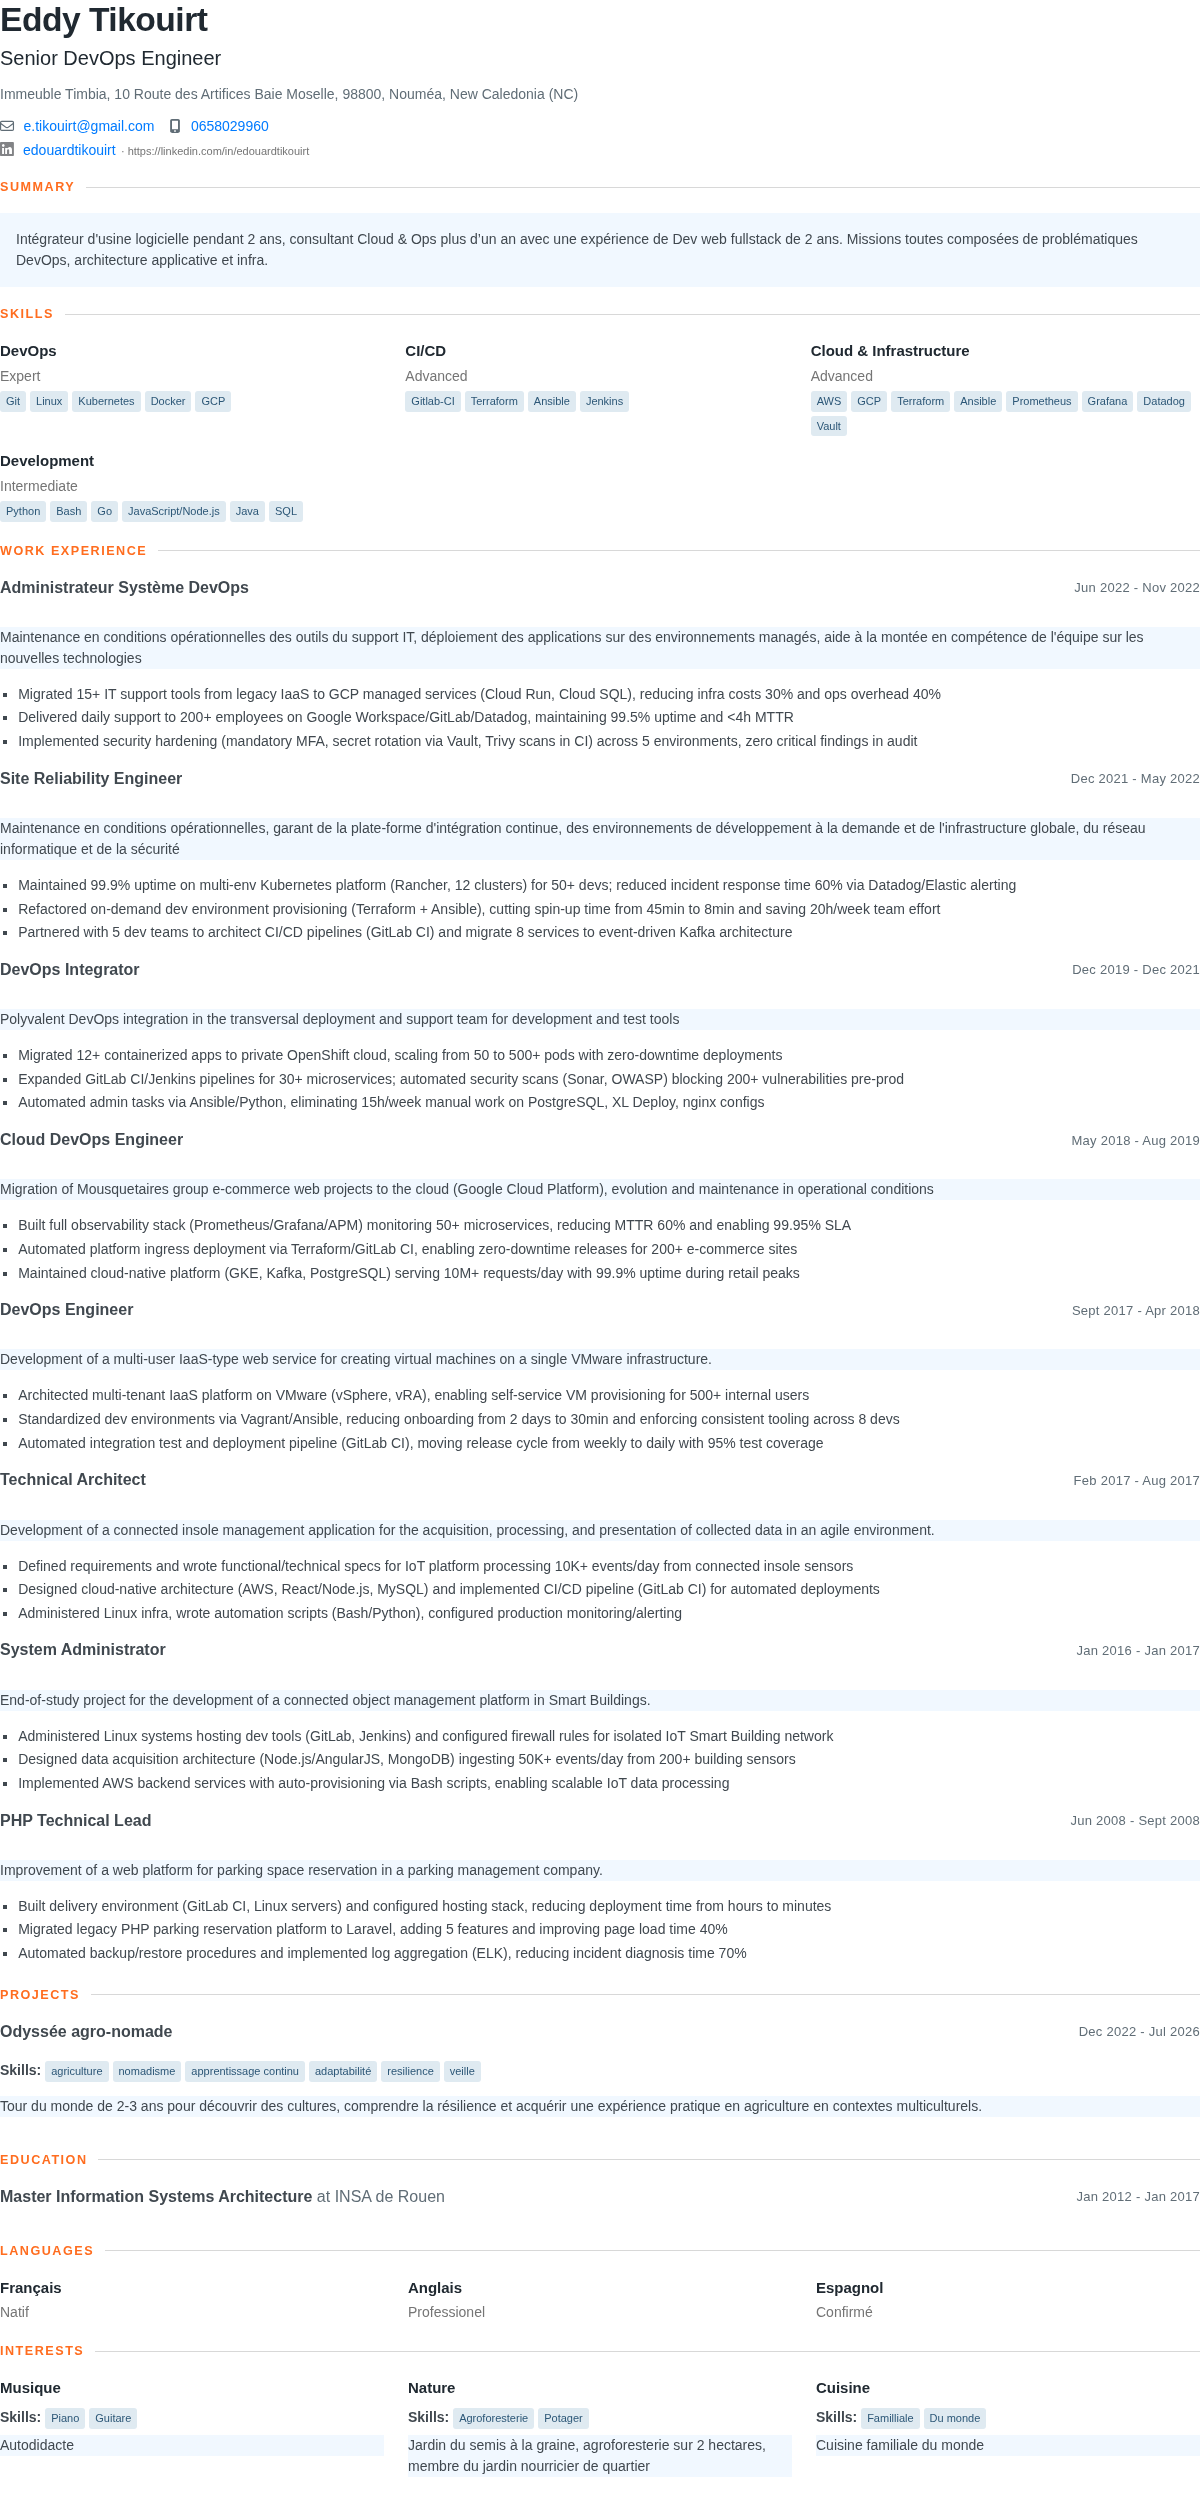
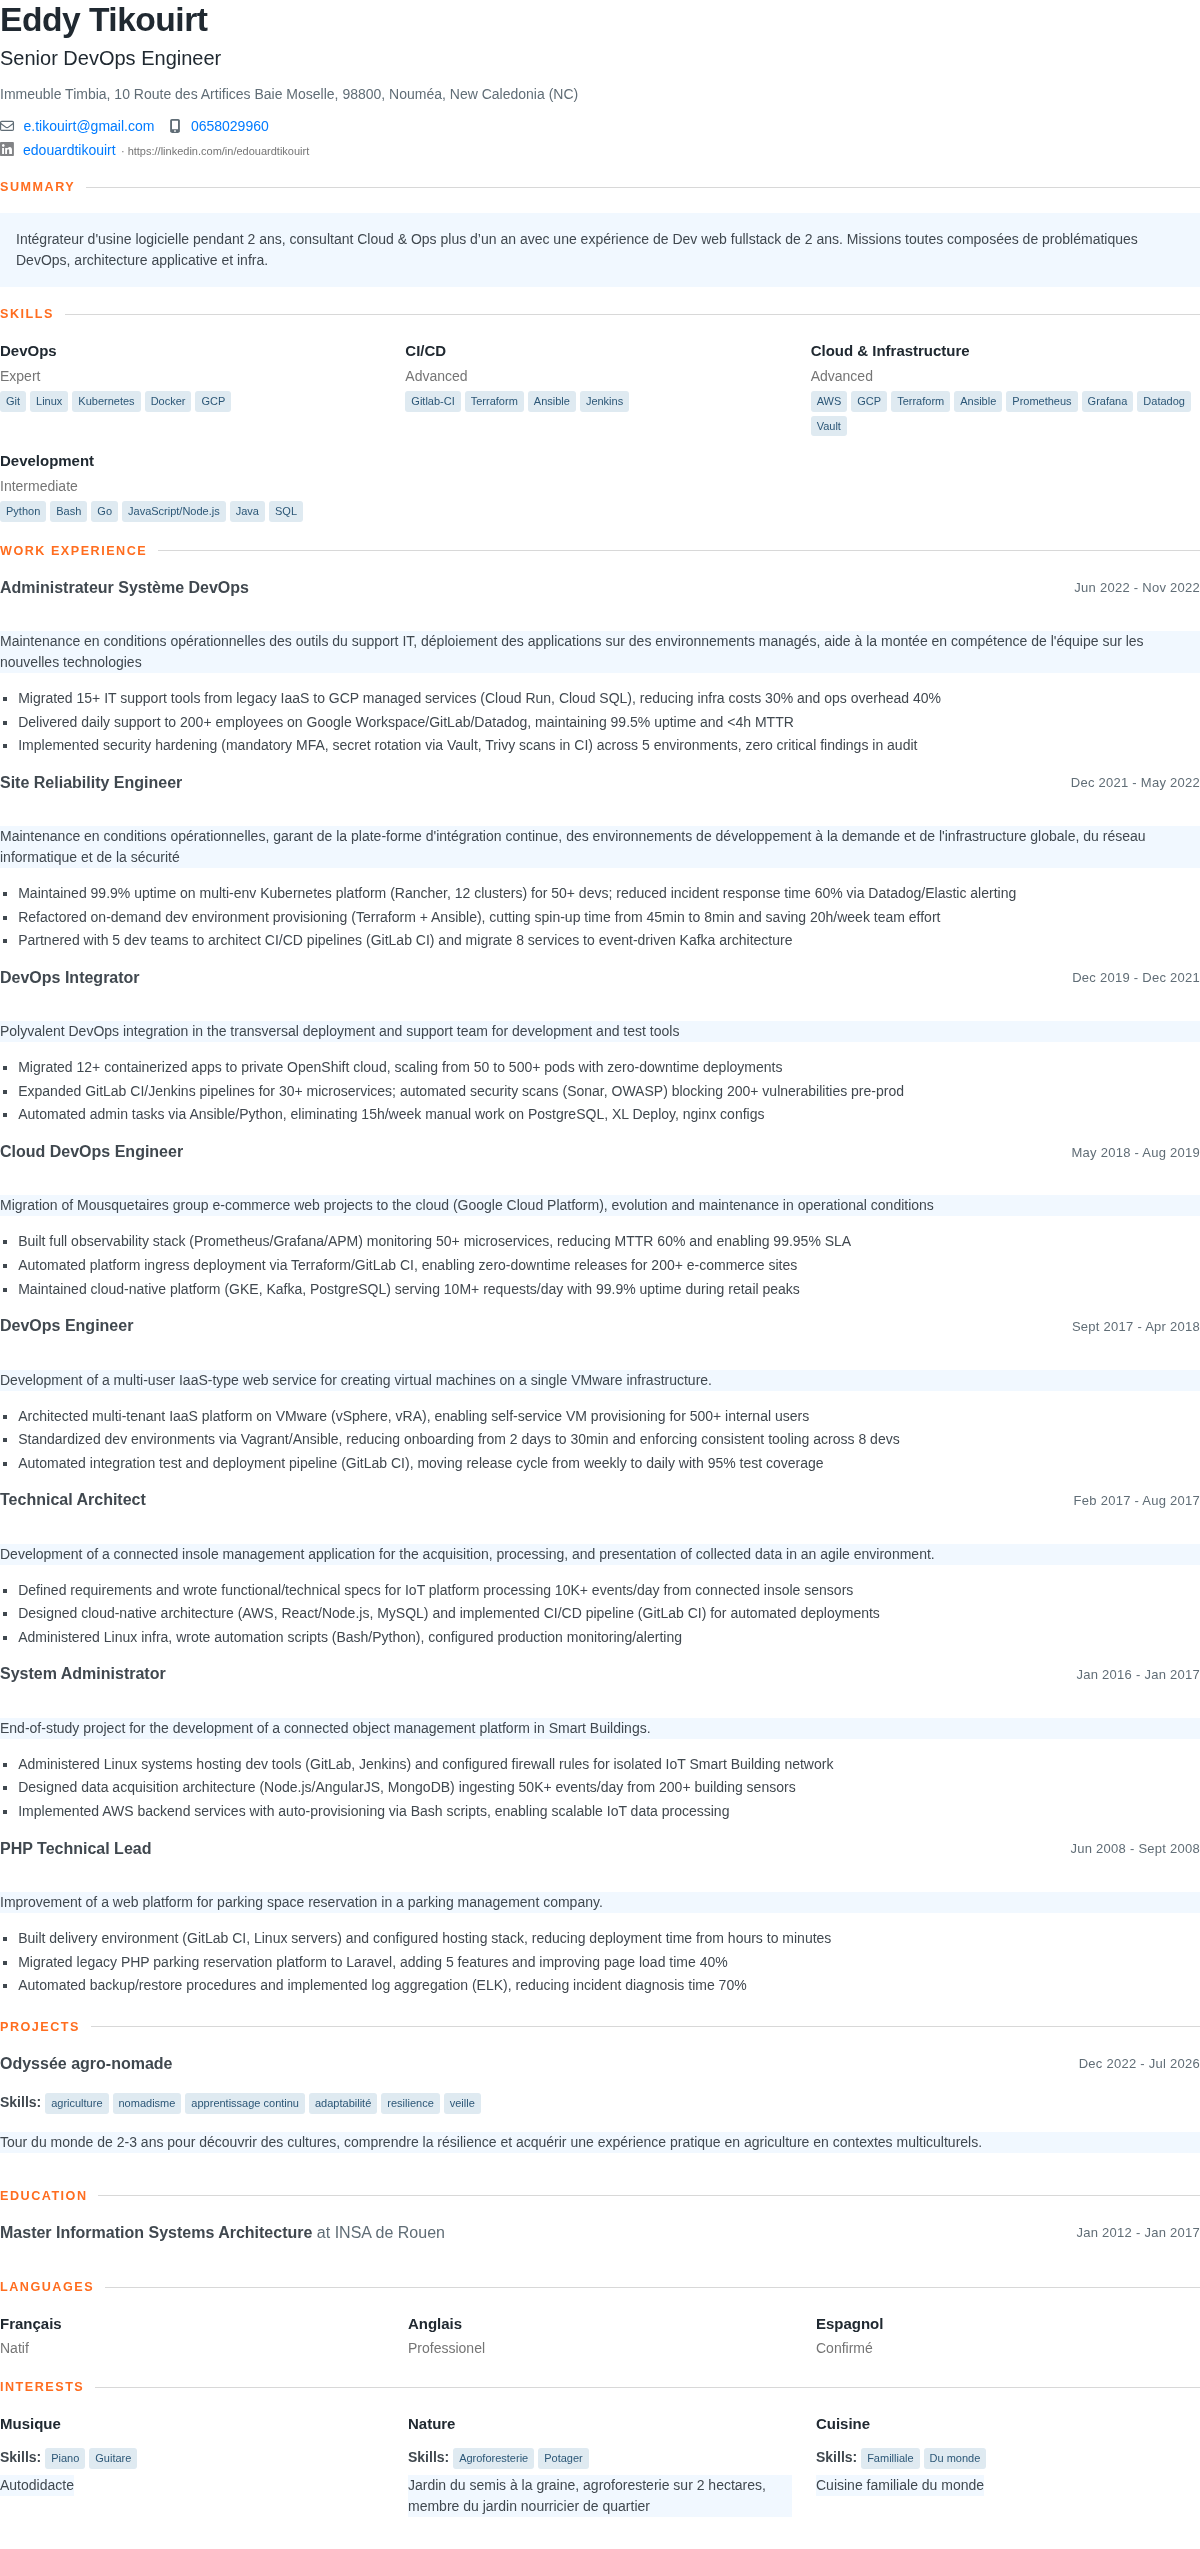
feat(print): fix bubble rendering, interests alignment, and layout density

diff --git a/dist/index.js b/dist/index.js
@@ -48,7 +48,7 @@ https://svelte.dev/e/unresolved_hydratable`,bold,normal):console.warn("https://s
   @media print {.level.svelte-10tjtrd {margin:0.1rem 0;font-weight:400;}.level.svelte-10tjtrd em:where(.svelte-10tjtrd) {font-style:normal;padding:0.1em 0;}.level.svelte-10tjtrd .bar:where(.svelte-10tjtrd) {display:none;}
   }`};function LevelBar($$renderer,$$props){$$renderer.global.css.add($$css5),$$renderer.component($$renderer2=>{let{level,displayText=void 0,name=""}=$$props,normalized=normalizeLevel(level),valueNow=normalized==="beginner"?25:normalized==="intermediate"?50:normalized==="advanced"||normalized==="fluent"?75:100;$$renderer2.push(`<div${attr_class(`level ${stringify(normalized)}`,"svelte-10tjtrd")} role="meter"${attr("aria-label",`${stringify(name?name+" level: ":"")}${stringify(displayText||level)}`)} aria-valuemin="0" aria-valuemax="100"${attr("aria-valuenow",valueNow)}><em class="svelte-10tjtrd">${escape_html(displayText||level)}</em> <div class="bar svelte-10tjtrd" aria-hidden="true"></div></div>`)})}var $$css6={hash:"svelte-1615qzb",code:`ul.svelte-1615qzb {margin:var(--sp-2) 0 0 0;}li.svelte-1615qzb {display:inline-block;margin:2px 4px 2px 0;padding:2px 6px;font-size:var(--fs-fine);line-height:1.5;color:var(--color-keyword-text);background-color:var(--color-keyword-bg);border:0 solid var(--color-keyword-border);border-radius:3px;white-space:nowrap;}li.svelte-1615qzb:hover {background:var(--color-keyword-bg);}
 
-  @media print {ul.svelte-1615qzb {margin:var(--sp-2) 0 0 0;}li.svelte-1615qzb {display:inline-block;margin:2px 4px 2px 0;padding:2px 6px;font-size:var(--fs-fine);background-color:var(--color-keyword-bg) !important;color:var(--color-keyword-text) !important;border-radius:3px;line-height:1.5;-webkit-print-color-adjust:exact !important;print-color-adjust:exact !important;}ul.svelte-1615qzb::before {font-size:var(--fs-body);font-weight:600;}ul.keywords.svelte-1615qzb::before {content:"Skills: ";font-size:var(--fs-body);}.skills-grid ul.svelte-1615qzb::before {content:none;}ul.courses.svelte-1615qzb::before {content:"Major courses: ";font-size:var(--fs-body);}.skills-grid .keywords.svelte-1615qzb {font-size:var(--fs-meta);margin:0;}
+  @media print {ul.svelte-1615qzb {margin:var(--sp-2) 0 0 0;}li.svelte-1615qzb {display:inline-block;margin:2px 4px 2px 0;padding:2px 6px;font-size:var(--fs-fine);background-color:var(--color-keyword-bg) !important;color:var(--color-keyword-text) !important;border-radius:3px !important;line-height:1.5;-webkit-print-color-adjust:exact !important;print-color-adjust:exact !important;}ul.svelte-1615qzb::before {font-size:var(--fs-body);font-weight:600;}ul.keywords.svelte-1615qzb::before {content:"Skills: ";font-size:var(--fs-body);}.skills-grid ul.svelte-1615qzb::before {content:none;}ul.courses.svelte-1615qzb::before {content:"Major courses: ";font-size:var(--fs-body);}.skills-grid .keywords.svelte-1615qzb {font-size:var(--fs-meta);margin:0;}
   }`};function KeywordList($$renderer,$$props){$$renderer.global.css.add($$css6),$$renderer.component($$renderer2=>{let{keywords=[],cssClass="keywords"}=$$props;if(keywords?.length){$$renderer2.push("<!--[0-->"),$$renderer2.push(`<ul${attr_class(clsx2(cssClass),"svelte-1615qzb")}><!--[-->`);let each_array=ensure_array_like(keywords);for(let $$index=0,$$length=each_array.length;$$index<$$length;$$index++){let keyword=each_array[$$index];$$renderer2.push(`<li class="svelte-1615qzb">${escape_html(keyword)}</li>`)}$$renderer2.push("<!--]--></ul>")}else $$renderer2.push("<!--[-1-->");$$renderer2.push("<!--]-->")})}var $$css7={hash:"svelte-18p2gu6",code:`.skills-grid.svelte-18p2gu6 {display:grid;grid-template-columns:repeat(3, minmax(0, 1fr));column-gap:var(--sp-5);row-gap:var(--sp-3);}.skill-item.svelte-18p2gu6 {padding:0;border-bottom:none;}.name.svelte-18p2gu6 {font-weight:700;font-size:var(--fs-card);line-height:var(--lh-snug);color:var(--color-heading);margin-bottom:var(--sp-1);}
 
   @media print {.skills-grid.svelte-18p2gu6 {column-gap:var(--sp-4);row-gap:var(--sp-3);}.skills-grid.svelte-18p2gu6 .skill-item:where(.svelte-18p2gu6) {display:flex;flex-direction:column;margin:0;padding:0;}
@@ -87,7 +87,7 @@ https://svelte.dev/e/unresolved_hydratable`,bold,normal):console.warn("https://s
   .header-left.svelte-g3qng .position:where(.svelte-g3qng) + .organization:where(.svelte-g3qng)::before,
   .header-left.svelte-g3qng .position:where(.svelte-g3qng) + .awarder:where(.svelte-g3qng)::before {content:"at ";}
 
-  @media print {.timeline-item.svelte-g3qng {margin-top:var(--sp-3);break-inside:avoid !important;page-break-inside:avoid !important;}.item.svelte-g3qng .summary:where(.svelte-g3qng) {margin-top:var(--sp-3) !important;}.company.svelte-g3qng a:where(.svelte-g3qng) {color:var(--color-text);}.company.svelte-g3qng::before,
+  @media print {.timeline-item.svelte-g3qng {margin-top:var(--sp-3);break-inside:avoid !important;page-break-inside:avoid !important;}.item.svelte-g3qng .summary:where(.svelte-g3qng) {margin-top:var(--sp-4) !important;}.company.svelte-g3qng a:where(.svelte-g3qng) {color:var(--color-text);}.company.svelte-g3qng::before,
     .institution.svelte-g3qng::before,
     .organization.svelte-g3qng::before,
     .awarder.svelte-g3qng::before {content:"at ";}.section p {margin:0;padding:0;}.fa-location-dot:before {padding-left:0.1em;}
@@ -105,7 +105,7 @@ https://svelte.dev/e/unresolved_hydratable`,bold,normal):console.warn("https://s
   @media screen and (min-width: 480px) and (max-width: 601px) {.languages-grid.svelte-2dygc7 {grid-template-columns:repeat(2, minmax(0, 1fr));}
   }`};function Languages($$renderer,$$props){$$renderer.global.css.add($$css12),$$renderer.component($$renderer2=>{let{languages=[]}=$$props;languages?.length?($$renderer2.push("<!--[0-->"),SectionHeader($$renderer2,{title:t("resume.languages"),count:languages.length,children:$$renderer3=>{$$renderer3.push('<section class="languages-grid svelte-2dygc7"><!--[-->');let each_array=ensure_array_like(languages);for(let $$index=0,$$length=each_array.length;$$index<$$length;$$index++){let lang=each_array[$$index];$$renderer3.push('<div class="language-entry display svelte-2dygc7">'),lang.language?($$renderer3.push("<!--[0-->"),$$renderer3.push(`<h3 class="language svelte-2dygc7">${escape_html(lang.language)}</h3>`)):$$renderer3.push("<!--[-1-->"),$$renderer3.push('<!--]--> <div class="language-item svelte-2dygc7">'),lang.fluency?($$renderer3.push("<!--[0-->"),LevelBar($$renderer3,{level:lang.fluency,displayText:lang.fluencyDisplay})):$$renderer3.push("<!--[-1-->"),$$renderer3.push("<!--]--></div></div>")}$$renderer3.push("<!--]--></section>")},$$slots:{default:!0}})):$$renderer2.push("<!--[-1-->"),$$renderer2.push("<!--]-->")})}var $$css13={hash:"svelte-1bnc9h3",code:`.interests-grid.svelte-1bnc9h3 {display:grid;grid-template-columns:repeat(3, minmax(0, 1fr));column-gap:var(--sp-5);row-gap:var(--sp-3);}.interest-item.svelte-1bnc9h3 {padding:0;border-bottom:none;}.interest-item.svelte-1bnc9h3 .name:where(.svelte-1bnc9h3) {font-weight:700;font-size:var(--fs-card);line-height:var(--lh-snug);color:var(--color-heading);margin-bottom:var(--sp-1);}.summary.svelte-1bnc9h3 {font-size:var(--fs-body);line-height:var(--lh-base);color:var(--color-text);margin-top:var(--sp-1);}
 
-  @media print {.interests-grid.svelte-1bnc9h3 {display:grid;grid-template-columns:repeat(3, minmax(0, 1fr));column-gap:var(--sp-5);row-gap:var(--sp-3);}.summary.svelte-1bnc9h3 {display:block !important;margin-top:var(--sp-1) !important;text-align:left !important;}
+  @media print {.interests-grid.svelte-1bnc9h3 {display:grid;grid-template-columns:repeat(3, minmax(0, 1fr));column-gap:var(--sp-5);row-gap:var(--sp-3);}.interest-item.svelte-1bnc9h3 {display:flex !important;flex-direction:column !important;align-items:flex-start !important;}.summary.svelte-1bnc9h3 {display:block !important;margin-top:var(--sp-1) !important;text-align:left !important;}
   }
 
   @media screen and (max-width: 479px) {.interests-grid.svelte-1bnc9h3 {grid-template-columns:1fr;}

diff --git a/preview.html b/preview.html
@@ -100,7 +100,7 @@ a:focus-visible { outline: 2px solid var(--color-accent); outline-offset: 2px; b
       @media print {
   @page {
     size: A4;
-    margin: 15mm 20mm 15mm 20mm;
+    margin: 1cm;
   }
 
   body {
@@ -112,6 +112,7 @@ a:focus-visible { outline: 2px solid var(--color-accent); outline-offset: 2px; b
     margin: 0 !important;
     padding: 0 !important;
     width: 100% !important;
+    min-height: auto !important;
   }
 
   a {
@@ -191,7 +192,7 @@ a:focus-visible { outline: 2px solid var(--color-accent); outline-offset: 2px; b
   @media print {.level.svelte-10tjtrd {margin:0.1rem 0;font-weight:400;}.level.svelte-10tjtrd em:where(.svelte-10tjtrd) {font-style:normal;padding:0.1em 0;}.level.svelte-10tjtrd .bar:where(.svelte-10tjtrd) {display:none;}
   }</style><style id="svelte-1615qzb">ul.svelte-1615qzb {margin:var(--sp-2) 0 0 0;}li.svelte-1615qzb {display:inline-block;margin:2px 4px 2px 0;padding:2px 6px;font-size:var(--fs-fine);line-height:1.5;color:var(--color-keyword-text);background-color:var(--color-keyword-bg);border:0 solid var(--color-keyword-border);border-radius:3px;white-space:nowrap;}li.svelte-1615qzb:hover {background:var(--color-keyword-bg);}
 
-  @media print {ul.svelte-1615qzb {margin:var(--sp-2) 0 0 0;}li.svelte-1615qzb {display:inline-block;margin:2px 4px 2px 0;padding:2px 6px;font-size:var(--fs-fine);background-color:var(--color-keyword-bg) !important;color:var(--color-keyword-text) !important;border-radius:3px;line-height:1.5;-webkit-print-color-adjust:exact !important;print-color-adjust:exact !important;}ul.svelte-1615qzb::before {font-size:var(--fs-body);font-weight:600;}ul.keywords.svelte-1615qzb::before {content:"Skills: ";font-size:var(--fs-body);}.skills-grid ul.svelte-1615qzb::before {content:none;}ul.courses.svelte-1615qzb::before {content:"Major courses: ";font-size:var(--fs-body);}.skills-grid .keywords.svelte-1615qzb {font-size:var(--fs-meta);margin:0;}
+  @media print {ul.svelte-1615qzb {margin:var(--sp-2) 0 0 0;}li.svelte-1615qzb {display:inline-block;margin:2px 4px 2px 0;padding:2px 6px;font-size:var(--fs-fine);background-color:var(--color-keyword-bg) !important;color:var(--color-keyword-text) !important;border-radius:3px !important;line-height:1.5;-webkit-print-color-adjust:exact !important;print-color-adjust:exact !important;}ul.svelte-1615qzb::before {font-size:var(--fs-body);font-weight:600;}ul.keywords.svelte-1615qzb::before {content:"Skills: ";font-size:var(--fs-body);}.skills-grid ul.svelte-1615qzb::before {content:none;}ul.courses.svelte-1615qzb::before {content:"Major courses: ";font-size:var(--fs-body);}.skills-grid .keywords.svelte-1615qzb {font-size:var(--fs-meta);margin:0;}
   }</style><style id="svelte-g3qng">.timeline-item.svelte-g3qng {margin-top:var(--sp-4);break-inside:avoid !important;page-break-inside:avoid !important;}.timeline-item.svelte-g3qng:first-of-type {margin-top:0;}.position.svelte-g3qng,
   .company.svelte-g3qng,
   .organization.svelte-g3qng,
@@ -218,7 +219,7 @@ a:focus-visible { outline: 2px solid var(--color-accent); outline-offset: 2px; b
   .header-left.svelte-g3qng .position:where(.svelte-g3qng) + .organization:where(.svelte-g3qng)::before,
   .header-left.svelte-g3qng .position:where(.svelte-g3qng) + .awarder:where(.svelte-g3qng)::before {content:"at ";}
 
-  @media print {.timeline-item.svelte-g3qng {margin-top:var(--sp-3);break-inside:avoid !important;page-break-inside:avoid !important;}.item.svelte-g3qng .summary:where(.svelte-g3qng) {margin-top:var(--sp-3) !important;}.company.svelte-g3qng a:where(.svelte-g3qng) {color:var(--color-text);}.company.svelte-g3qng::before,
+  @media print {.timeline-item.svelte-g3qng {margin-top:var(--sp-3);break-inside:avoid !important;page-break-inside:avoid !important;}.item.svelte-g3qng .summary:where(.svelte-g3qng) {margin-top:var(--sp-4) !important;}.company.svelte-g3qng a:where(.svelte-g3qng) {color:var(--color-text);}.company.svelte-g3qng::before,
     .institution.svelte-g3qng::before,
     .organization.svelte-g3qng::before,
     .awarder.svelte-g3qng::before {content:"at ";}.section p {margin:0;padding:0;}.fa-location-dot:before {padding-left:0.1em;}
@@ -239,7 +240,7 @@ a:focus-visible { outline: 2px solid var(--color-accent); outline-offset: 2px; b
   @media screen and (min-width: 480px) and (max-width: 601px) {.languages-grid.svelte-2dygc7 {grid-template-columns:repeat(2, minmax(0, 1fr));}
   }</style><style id="svelte-1bnc9h3">.interests-grid.svelte-1bnc9h3 {display:grid;grid-template-columns:repeat(3, minmax(0, 1fr));column-gap:var(--sp-5);row-gap:var(--sp-3);}.interest-item.svelte-1bnc9h3 {padding:0;border-bottom:none;}.interest-item.svelte-1bnc9h3 .name:where(.svelte-1bnc9h3) {font-weight:700;font-size:var(--fs-card);line-height:var(--lh-snug);color:var(--color-heading);margin-bottom:var(--sp-1);}.summary.svelte-1bnc9h3 {font-size:var(--fs-body);line-height:var(--lh-base);color:var(--color-text);margin-top:var(--sp-1);}
 
-  @media print {.interests-grid.svelte-1bnc9h3 {display:grid;grid-template-columns:repeat(3, minmax(0, 1fr));column-gap:var(--sp-5);row-gap:var(--sp-3);}.summary.svelte-1bnc9h3 {display:block !important;margin-top:var(--sp-1) !important;text-align:left !important;}
+  @media print {.interests-grid.svelte-1bnc9h3 {display:grid;grid-template-columns:repeat(3, minmax(0, 1fr));column-gap:var(--sp-5);row-gap:var(--sp-3);}.interest-item.svelte-1bnc9h3 {display:flex !important;flex-direction:column !important;align-items:flex-start !important;}.summary.svelte-1bnc9h3 {display:block !important;margin-top:var(--sp-1) !important;text-align:left !important;}
   }
 
   @media screen and (max-width: 479px) {.interests-grid.svelte-1bnc9h3 {grid-template-columns:1fr;}

diff --git a/src/components/KeywordList.svelte b/src/components/KeywordList.svelte
@@ -36,13 +36,13 @@
     ul { margin: var(--sp-2) 0 0 0; }
 li { 
   display: inline-block;
-  margin: 2px 4px 2px 0; 
-  padding: 2px 6px; 
-  font-size: var(--fs-fine); 
-  background-color: var(--color-keyword-bg) !important; 
+  margin: 2px 4px 2px 0;
+  padding: 2px 6px;
+  font-size: var(--fs-fine);
+  background-color: var(--color-keyword-bg) !important;
   color: var(--color-keyword-text) !important;
-  border-radius: 3px; 
-  line-height: 1.5; 
+  border-radius: 3px !important;
+  line-height: 1.5;
   -webkit-print-color-adjust: exact !important;
   print-color-adjust: exact !important;
 }

diff --git a/src/components/Interests.svelte b/src/components/Interests.svelte
@@ -62,6 +62,11 @@
       column-gap: var(--sp-5);
       row-gap: var(--sp-3);
     }
+    .interest-item {
+      display: flex !important;
+      flex-direction: column !important;
+      align-items: flex-start !important;
+    }
     .summary {
       display: block !important;
       margin-top: var(--sp-1) !important;

diff --git a/styles/print.css b/styles/print.css
@@ -1,7 +1,7 @@
 @media print {
   @page {
     size: A4;
-    margin: 15mm 20mm 15mm 20mm;
+    margin: 1cm;
   }
 
   body {
@@ -13,6 +13,7 @@
     margin: 0 !important;
     padding: 0 !important;
     width: 100% !important;
+    min-height: auto !important;
   }
 
   a {

diff --git a/src/components/TimelineItem.svelte b/src/components/TimelineItem.svelte
@@ -172,7 +172,7 @@
       page-break-inside: avoid !important;
     }
     .item .summary {
-      margin-top: var(--sp-3) !important;
+      margin-top: var(--sp-4) !important;
     }
     .company a { color: var(--color-text); }
     .company::before,
